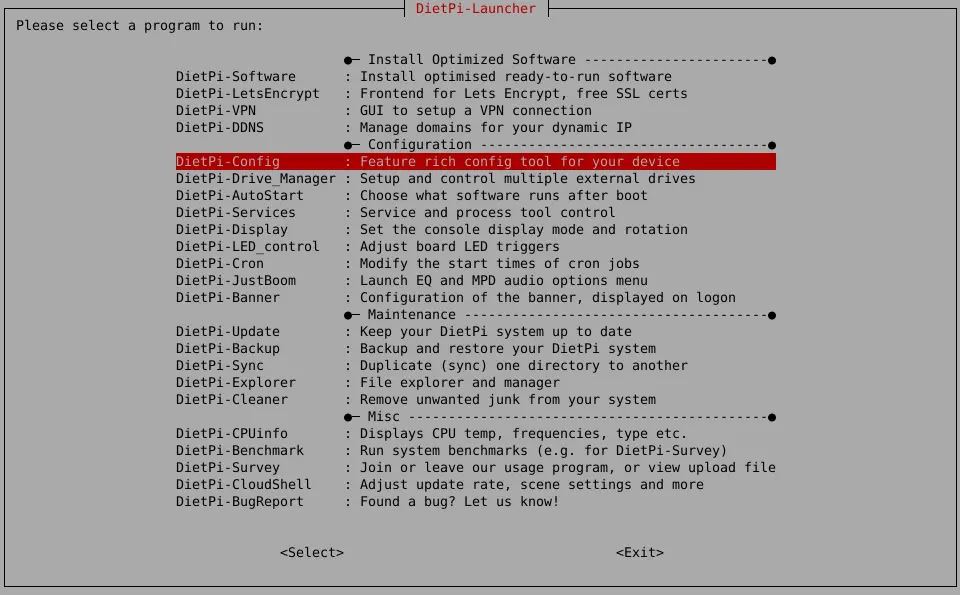
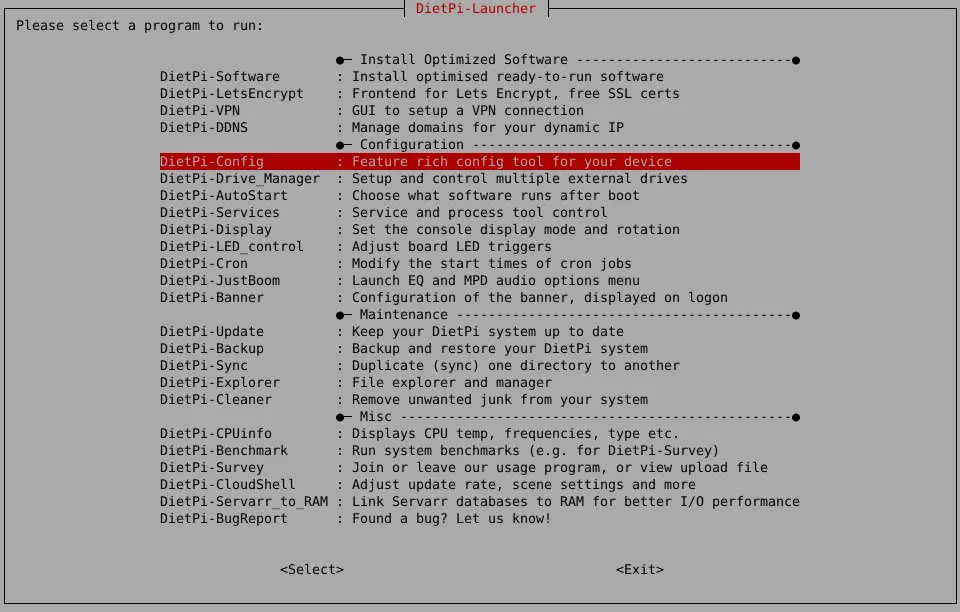
Update DietPi-Launcher screenshot with DietPi-Servarr_to_RAM (#1176)

diff --git a/docs/dietpi_tools.md b/docs/dietpi_tools.md
@@ -8,7 +8,7 @@ It provides an easy access to all DietPi OS tools and can be accessed by running
 dietpi-launcher
 ```
 
-![DietPi-Launcher screenshot](assets/images/dietpi-launcher.webp "DietPi-Launcher main menu"){: width="960" height="595" loading="lazy"}
+![DietPi-Launcher screenshot](assets/images/dietpi-launcher.webp "DietPi-Launcher main menu"){: width="960" height="612" loading="lazy"}
 
 ## [Software Installation](dietpi_tools/software_installation.md)
 
